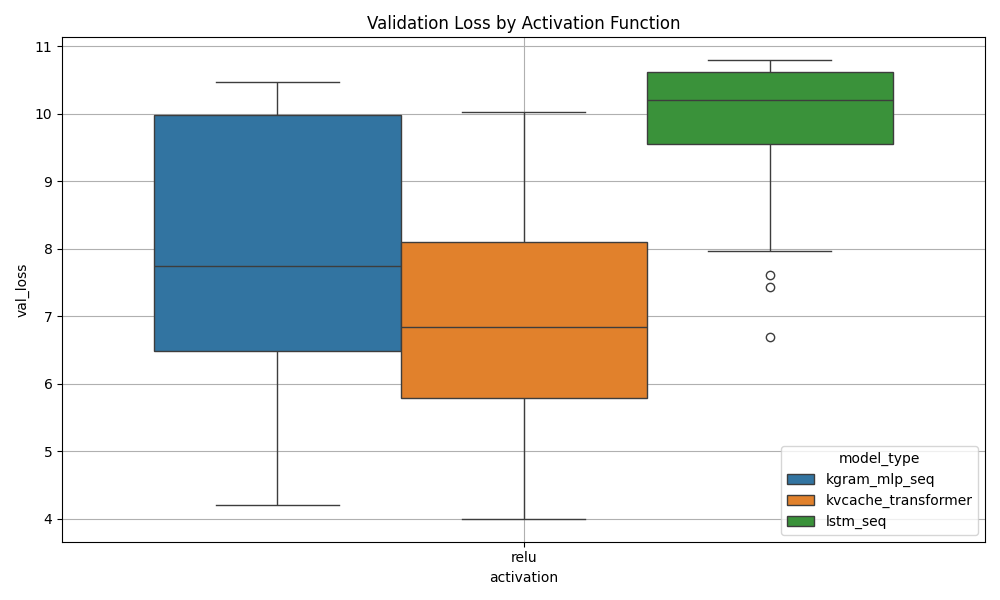
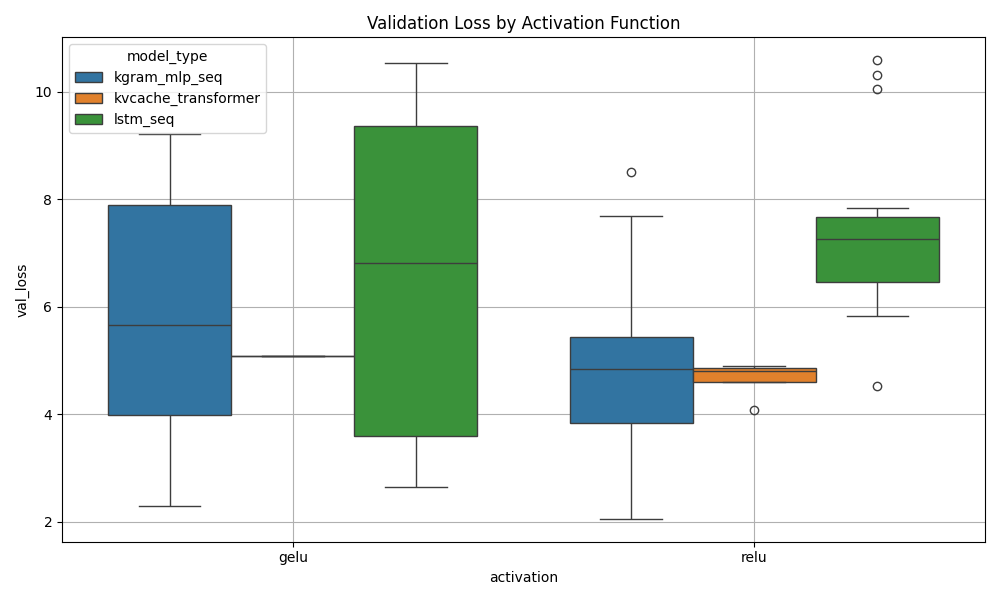
STABLE v1.1 project

diff --git a/analyze_all_checkpoints.py b/analyze_all_checkpoints.py
@@ -4,6 +4,7 @@ import shutil
 import argparse
 import torch
 import csv
+import json
 from datetime import datetime
 from analyze_checkpoints import analyze_checkpoints, plotlosses
 
@@ -35,16 +36,19 @@ def extract_config_from_dir(dirname):
 def safe_filename(s):
     return re.sub(r'[<>:"/\\|?*]', '', s.replace(" ", "_"))
 
-def copy_analysis_outputs(src_dir, dst_base, model_type):
-    dst_dir = os.path.join(dst_base, model_type, "generations")
+def copy_analysis_outputs(src_dir, dst_base, model_type, runname, config, final_metrics):
+    dst_dir = os.path.join(dst_base, model_type, runname)
     os.makedirs(dst_dir, exist_ok=True)
 
     for fname in ["generations.jsonl", "generations.csv", "metrics_curve.png"]:
         src = os.path.join(src_dir, fname)
         if os.path.exists(src):
-            dst = os.path.join(dst_dir, os.path.basename(src_dir) + f"__{fname}")
-            shutil.copyfile(src, dst)
-            print(f"📄 Copied {fname} ➝ {dst}")
+            shutil.copyfile(src, os.path.join(dst_dir, fname))
+            print(f"📄 Copied {fname} ➝ {dst_dir}")
+
+    # Optionally dump config and metrics
+    with open(os.path.join(dst_dir, "summary.json"), "w") as f:
+        json.dump({**config, **final_metrics}, f, indent=2)
 
 def already_analyzed(dst_base, model_type, dirname):
     dst_dir = os.path.join(dst_base, model_type, "generations")
@@ -121,11 +125,14 @@ def main():
             config["activation"]
         )
 
+        
+        # Plot loss curves
         loss_log_path = os.path.join(checkpoint_dir_sub, "loss_log.pt")
         plotlosses(loss_log_path, args_obj)
-
+        # Collect summary metrics
+        final_metrics = get_final_metrics(loss_log_path)
         # Copy results to analysis_runs
-        copy_analysis_outputs(checkpoint_dir_sub, args.analysis_dir, config["model_type"])
+        copy_analysis_outputs(checkpoint_dir_sub, args.analysis_dir, config["model_type"], dirname, config, final_metrics)
 
         # Collect summary metrics
         final_metrics = get_final_metrics(loss_log_path)

diff --git a/total_summary_analysis.py b/total_summary_analysis.py
@@ -2,8 +2,41 @@ import pandas as pd
 import matplotlib.pyplot as plt
 import seaborn as sns
 import os
+import csv
+from collections import OrderedDict
+
+def merge_summaries(analysis_dir="analysis_runs", output_csv="summary.csv"):
+    merged_rows = OrderedDict()
+
+    # Look for all cache files in analysis_runs/
+    for fname in os.listdir(analysis_dir):
+        if fname.startswith("summary_cache") and fname.endswith(".csv"):
+            full_path = os.path.join(analysis_dir, fname)
+            print(f"📥 Reading {fname}")
+
+            with open(full_path, newline='', encoding="utf-8") as f:
+                reader = csv.DictReader(f)
+                for row in reader:
+                    config_name = row["config_name"]
+                    merged_rows[config_name] = row  # Overwrite with the latest
+
+    if not merged_rows:
+        print("⚠ No summary_cache files found.")
+        return
+
+    # Write merged file
+    output_path = os.path.join(analysis_dir, output_csv)
+    keys = list(next(iter(merged_rows.values())).keys())
+    with open(output_path, "w", newline='', encoding="utf-8") as f:
+        writer = csv.DictWriter(f, fieldnames=keys)
+        writer.writeheader()
+        writer.writerows(merged_rows.values())
+
+    print(f"\n✅ Merged summary written to {output_path} ({len(merged_rows)} entries)")
+
 
 summary_path = "analysis_runs/summary.csv"
+merge_summaries()
 if not os.path.exists(summary_path):
     raise FileNotFoundError("❌ summary.csv not found in analysis_runs/. Run analyze_all_checkpoints.py first.")
 

diff --git a/analyze_checkpoints.py b/analyze_checkpoints.py
@@ -201,7 +201,7 @@ if __name__ == "__main__":
     parser.add_argument("--chunk_size", type=int, default=None)
     parser.add_argument("--inner_layers", type=int, default=None)
     parser.add_argument("--block_size", type=int, default=None)
-    parser.add_argument("--activation", type=str, default="relu", choices=["relu", "gelu"], help="Activation function used in training")
+    parser.add_argument("--activation", type=str, default="gelu", choices=["relu", "gelu"], help="Activation function used in training")
     args = parser.parse_args()
 
     # --- Regex extraction from checkpoint_dir_sub ---
